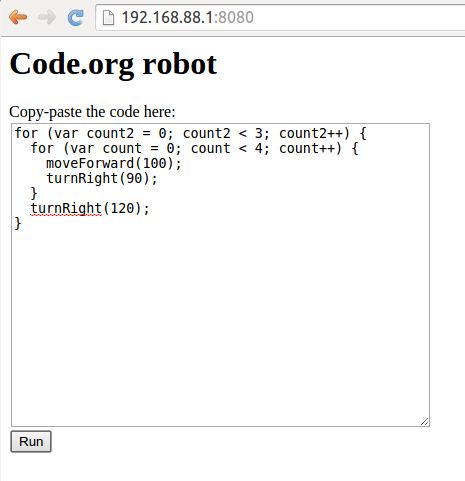
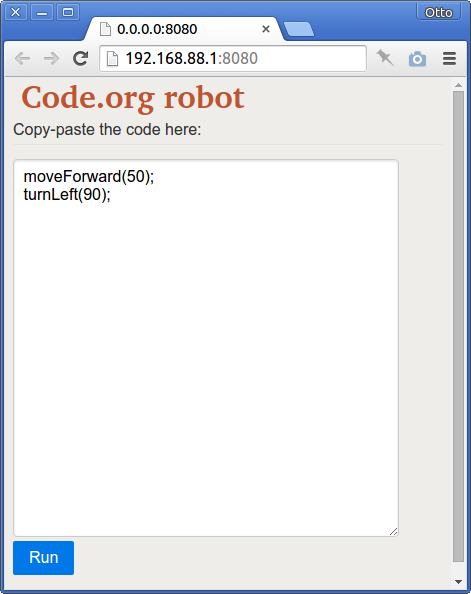
Update screenshot to match new UI

Changed region(s): [[0.0, 0.0, 1.0, 1.0], [0.9032, 0.8732, 0.9333, 0.9044]]

diff --git a/README.md b/README.md
@@ -60,8 +60,7 @@ To have the robot running automatically on boot, you need in /etc/rc.local to de
  * Document better how wifi access point was set up and how Node.js app is automatically launched from /etc/rc.local
  * Better calibrate the robot's wheels to ensure clean 90 degree turns
  * Write more JavaScript functions to extend the compatibility with all possible function names used at Code.org
- * Imporive the web UI visuals, make is more colorful etc
- * Integrate a small IDE in the web UI to make writing more code plesant
+ * Integrate a small IDE in the web UI to make writing more code pleasant
  * Run eval() on the code already on the browser side and thus protect from failures in the eval() execution on the server side (as client side failure is easier for user to detect and debug than server)
  * Make server-client communication more real time, maybe provide a websocket based console that exposes in web ui what the server ran
- 
+
